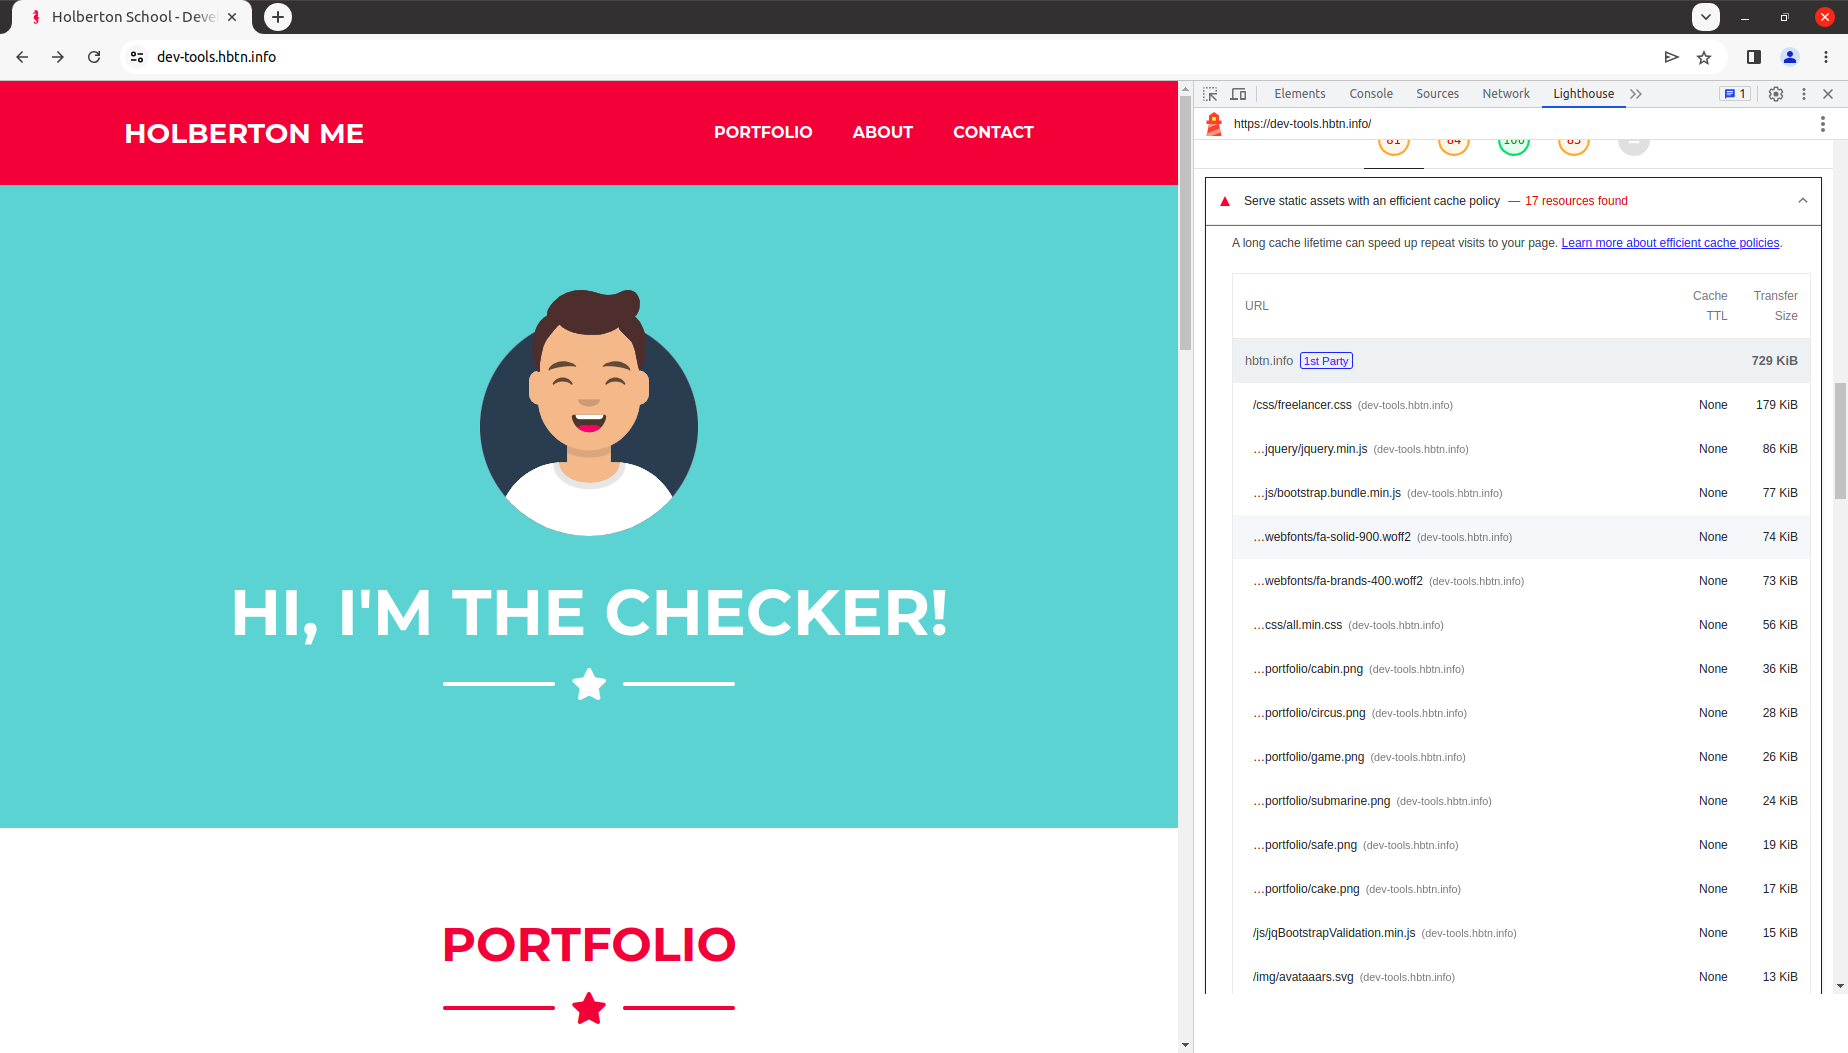
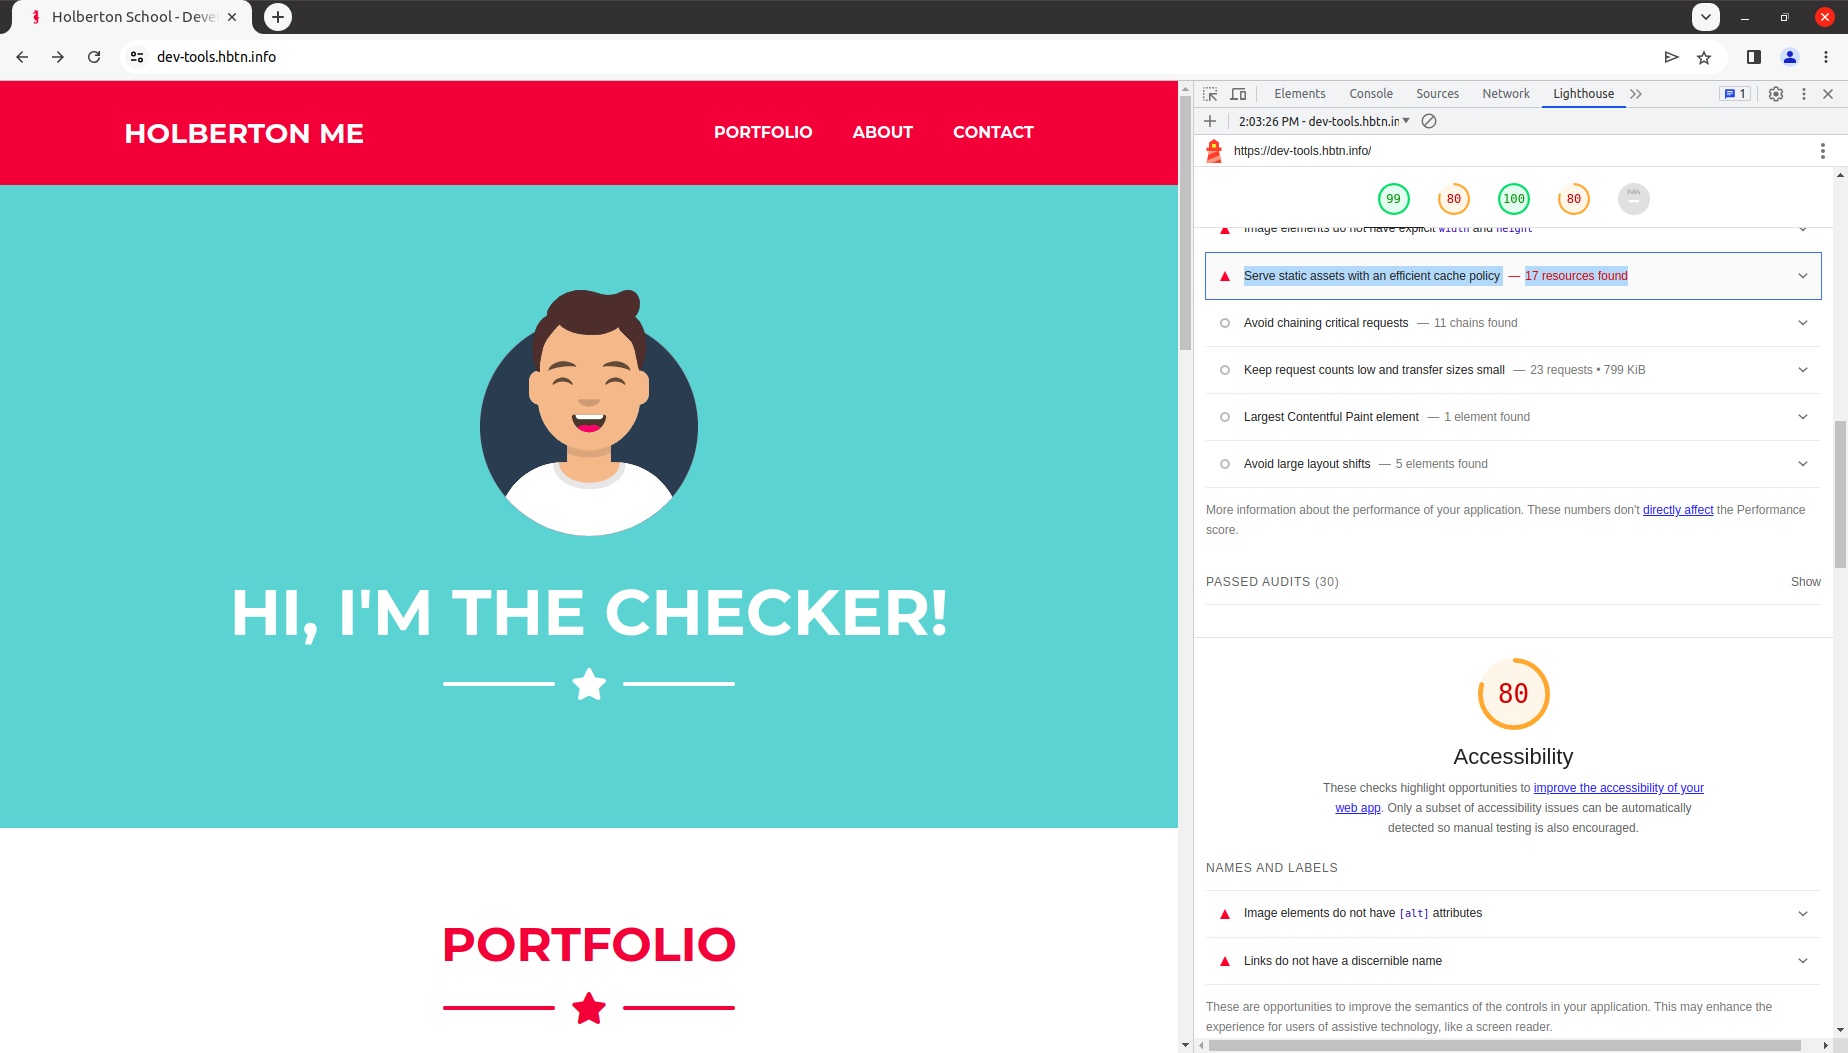
Use desktop mode for both exercis e14 and exercise 15 of devtools

diff --git a/developer_tools/README.md b/developer_tools/README.md
@@ -59,7 +59,13 @@ Each exercise's answer may be stored in a file starting with the same number.
 22. What is the name of the resource that generates 1 XHR call?
     https://www.codexworld.com/how-to/monitor-ajax-requests-google-chrome/
 23. What is the notation for ``Performance`` (for desktop mode and no throttling - also called Lighthouse)?
-24. How many static assets need a better cache policy?
+24. Also in Lighthouse, How many static assets need a better cache policy?
+25. Still in Lighthouse, what is the contrast issue?
+    Write only the letter of the answer in the file starting with ``25``:
+
+    A. Image elements do not have [alt] attributes
+    B. Links do not have a discernible name
+    C. Background and foreground colors do not have a sufficient contrast ratio.
 26. Which classes are on the images that have no alt attribute?
     https://devtoolstips.org/tips/en/find-all-images-without-alt-text/
     https://developer.chrome.com/docs/devtools/dom/
